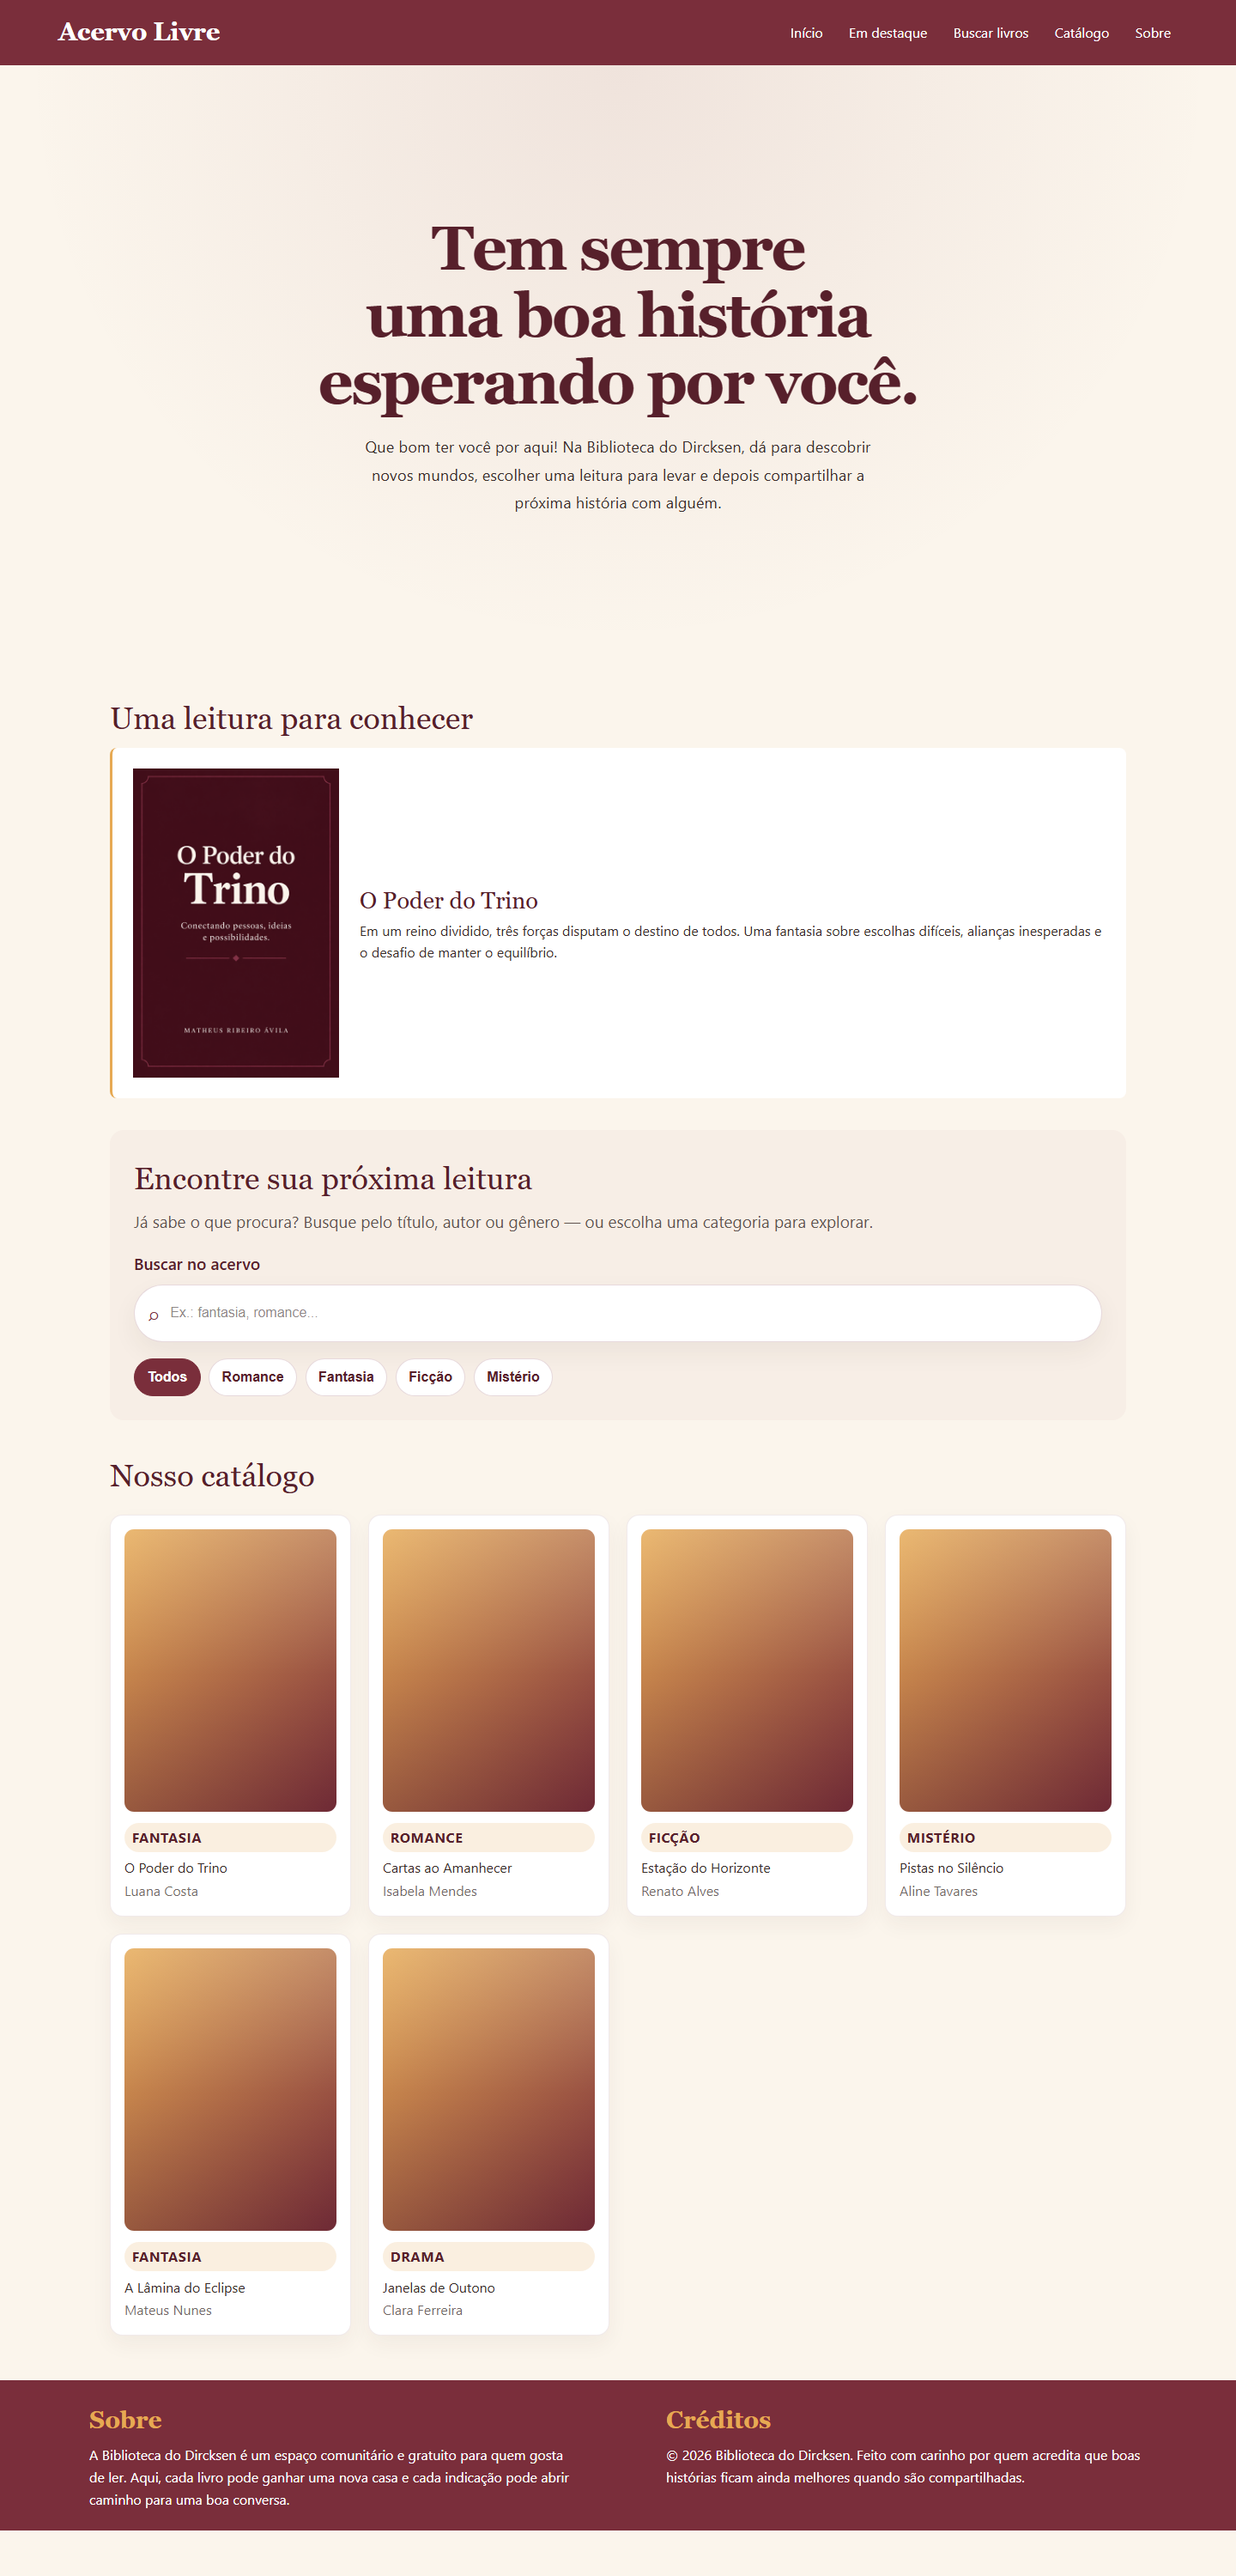
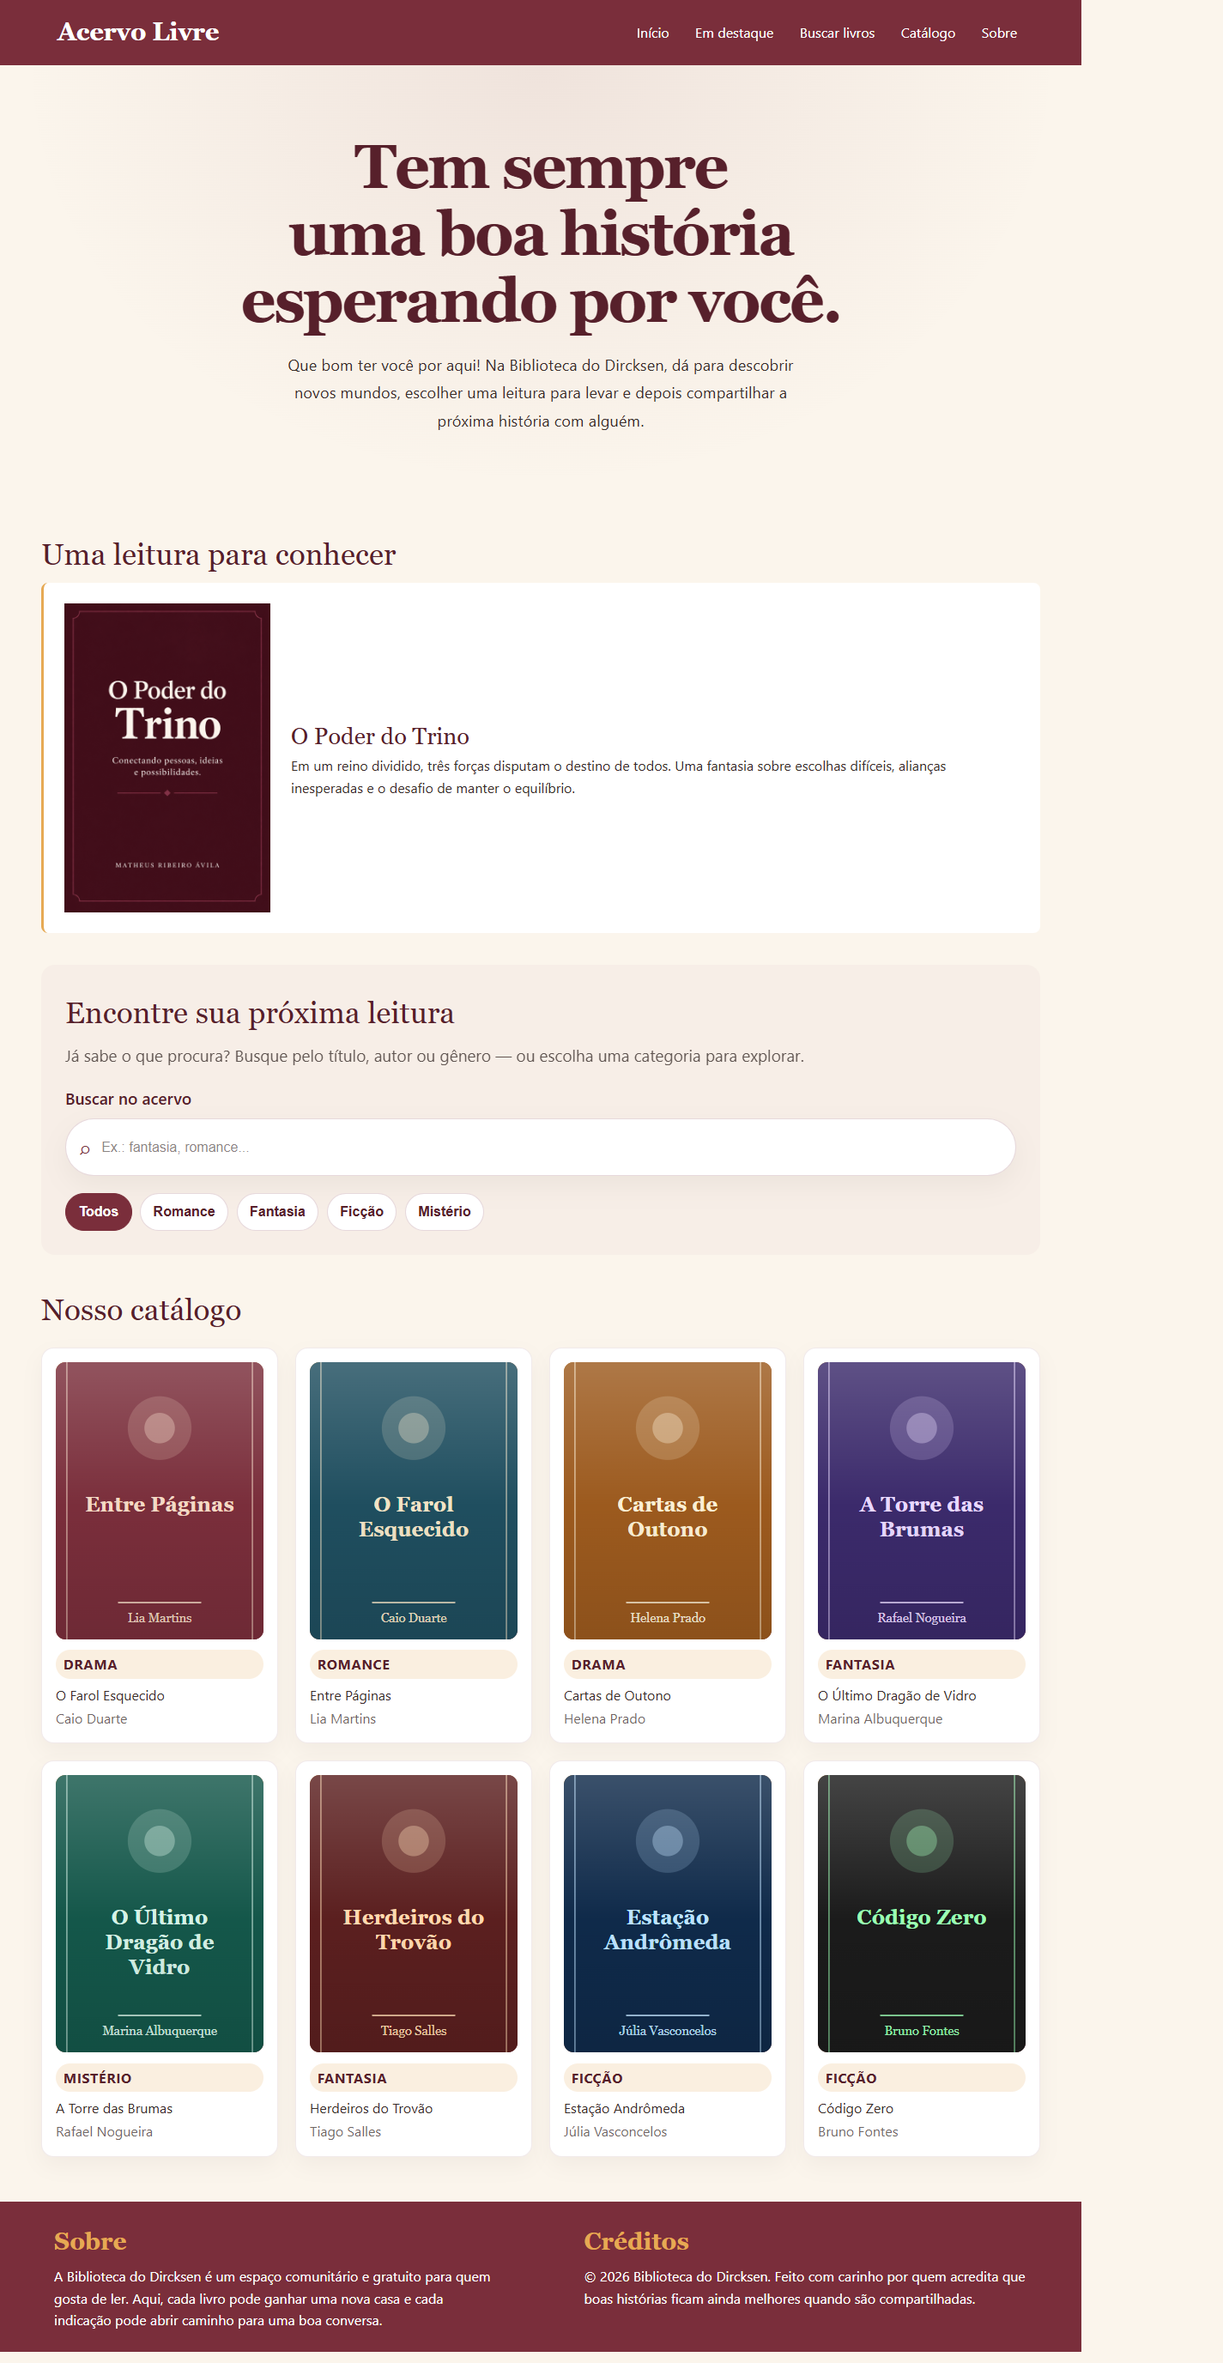
Ajuste das capturas de telas

diff --git a/index.html b/index.html
@@ -75,56 +75,90 @@
 
                 <div class="catalogoGrid" aria-label="Catálogo de livros">
                     <article class="livroCatalogo">
-                        <div class="capaCatalogo capaTrino"></div>
-                        <div class="infoCatalogo">
-                            <span class="tag">Fantasia</span>
-                            <h3>O Poder do Trino</h3>
-                            <p>Luana Costa</p>
+                        <div class="capaCatalogo">
+                            <img src="./img/capa1.svg" alt="Capa do livro O Farol Esquecido">
                         </div>
-                    </article>
-
-                    <article class="livroCatalogo">
-                        <div class="capaCatalogo capaRomance"></div>
-                        <div class="infoCatalogo">
-                            <span class="tag">Romance</span>
-                            <h3>Cartas ao Amanhecer</h3>
-                            <p>Isabela Mendes</p>
-                        </div>
-                    </article>
-
-                    <article class="livroCatalogo">
-                        <div class="capaCatalogo capaFiccao"></div>
-                        <div class="infoCatalogo">
-                            <span class="tag">Ficção</span>
-                            <h3>Estação do Horizonte</h3>
-                            <p>Renato Alves</p>
-                        </div>
-                    </article>
-
-                    <article class="livroCatalogo">
-                        <div class="capaCatalogo capaMisterio"></div>
-                        <div class="infoCatalogo">
-                            <span class="tag">Mistério</span>
-                            <h3>Pistas no Silêncio</h3>
-                            <p>Aline Tavares</p>
-                        </div>
-                    </article>
-
-                    <article class="livroCatalogo">
-                        <div class="capaCatalogo capaFantasia2"></div>
-                        <div class="infoCatalogo">
-                            <span class="tag">Fantasia</span>
-                            <h3>A Lâmina do Eclipse</h3>
-                            <p>Mateus Nunes</p>
-                        </div>
-                    </article>
-
-                    <article class="livroCatalogo">
-                        <div class="capaCatalogo capaDrama"></div>
                         <div class="infoCatalogo">
                             <span class="tag">Drama</span>
-                            <h3>Janelas de Outono</h3>
-                            <p>Clara Ferreira</p>
+                            <h3>O Farol Esquecido</h3>
+                            <p>Caio Duarte</p>
+                        </div>
+                    </article>
+
+                    <article class="livroCatalogo">
+                        <div class="capaCatalogo">
+                            <img src="./img/capa2.svg" alt="Capa do livro Entre Páginas">
+                        </div>
+                        <div class="infoCatalogo">
+                            <span class="tag">Romance</span>
+                            <h3>Entre Páginas</h3>
+                            <p>Lia Martins</p>
+                        </div>
+                    </article>
+
+                    <article class="livroCatalogo">
+                        <div class="capaCatalogo">
+                            <img src="./img/capa3.svg" alt="Capa do livro Cartas de Outono">
+                        </div>
+                        <div class="infoCatalogo">
+                            <span class="tag">Drama</span>
+                            <h3>Cartas de Outono</h3>
+                            <p>Helena Prado</p>
+                        </div>
+                    </article>
+
+                    <article class="livroCatalogo">
+                        <div class="capaCatalogo">
+                            <img src="./img/capa4.svg" alt="Capa do livro O Último Dragão de Vidro">
+                        </div>
+                        <div class="infoCatalogo">
+                            <span class="tag">Fantasia</span>
+                            <h3>O Último Dragão de Vidro</h3>
+                            <p>Marina Albuquerque</p>
+                        </div>
+                    </article>
+
+                    <article class="livroCatalogo">
+                        <div class="capaCatalogo">
+                            <img src="./img/capa5.svg" alt="Capa do livro A Torre das Brumas">
+                        </div>
+                        <div class="infoCatalogo">
+                            <span class="tag">Mistério</span>
+                            <h3>A Torre das Brumas</h3>
+                            <p>Rafael Nogueira</p>
+                        </div>
+                    </article>
+
+                    <article class="livroCatalogo">
+                        <div class="capaCatalogo">
+                            <img src="./img/capa6.svg" alt="Capa do livro Herdeiros do Trovão">
+                        </div>
+                        <div class="infoCatalogo">
+                            <span class="tag">Fantasia</span>
+                            <h3>Herdeiros do Trovão</h3>
+                            <p>Tiago Salles</p>
+                        </div>
+                    </article>
+
+                    <article class="livroCatalogo">
+                        <div class="capaCatalogo">
+                            <img src="./img/capa7.svg" alt="Capa do livro Estação Andrômeda">
+                        </div>
+                        <div class="infoCatalogo">
+                            <span class="tag">Ficção</span>
+                            <h3>Estação Andrômeda</h3>
+                            <p>Júlia Vasconcelos</p>
+                        </div>
+                    </article>
+
+                    <article class="livroCatalogo">
+                        <div class="capaCatalogo">
+                            <img src="./img/capa8.svg" alt="Capa do livro Código Zero">
+                        </div>
+                        <div class="infoCatalogo">
+                            <span class="tag">Ficção</span>
+                            <h3>Código Zero</h3>
+                            <p>Bruno Fontes</p>
                         </div>
                     </article>
                 </div>

diff --git a/css/style.css b/css/style.css
@@ -421,6 +421,14 @@ main {
     border-radius: 0.7rem;
     overflow: hidden;
     background: linear-gradient(135deg, var(--dourado), var(--vinho));
+    box-shadow: inset 0 0 0 1px rgb(57 45 42 / 8%);
+}
+
+.capaCatalogo img {
+    display: block;
+    width: 100%;
+    height: 100%;
+    object-fit: cover;
 }
 
 .infoCatalogo {

diff --git a/README.md b/README.md
@@ -47,12 +47,14 @@ Se preferir, use a extensão **Live Server** no Visual Studio Code para servir a
 
 | Livro | Autor(a) | Gênero |
 |---|---|---|
-| O Poder do Trino | Luana Costa | Fantasia |
-| Cartas ao Amanhecer | Isabela Mendes | Romance |
-| Estação do Horizonte | Renato Alves | Ficção |
-| Pistas no Silêncio | Aline Tavares | Mistério |
-| A Lâmina do Eclipse | Mateus Nunes | Fantasia |
-| Janelas de Outono | Clara Ferreira | Drama |
+| O Farol Esquecido | Caio Duarte | Drama |
+| Entre Páginas | Lia Martins | Romance |
+| Cartas de Outono | Helena Prado | Drama |
+| O Último Dragão de Vidro | Marina Albuquerque | Fantasia |
+| A Torre das Brumas | Rafael Nogueira | Mistério |
+| Herdeiros do Trovão | Tiago Salles | Fantasia |
+| Estação Andrômeda | Júlia Vasconcelos | Ficção |
+| Código Zero | Bruno Fontes | Ficção |
 
 ## Créditos
 
